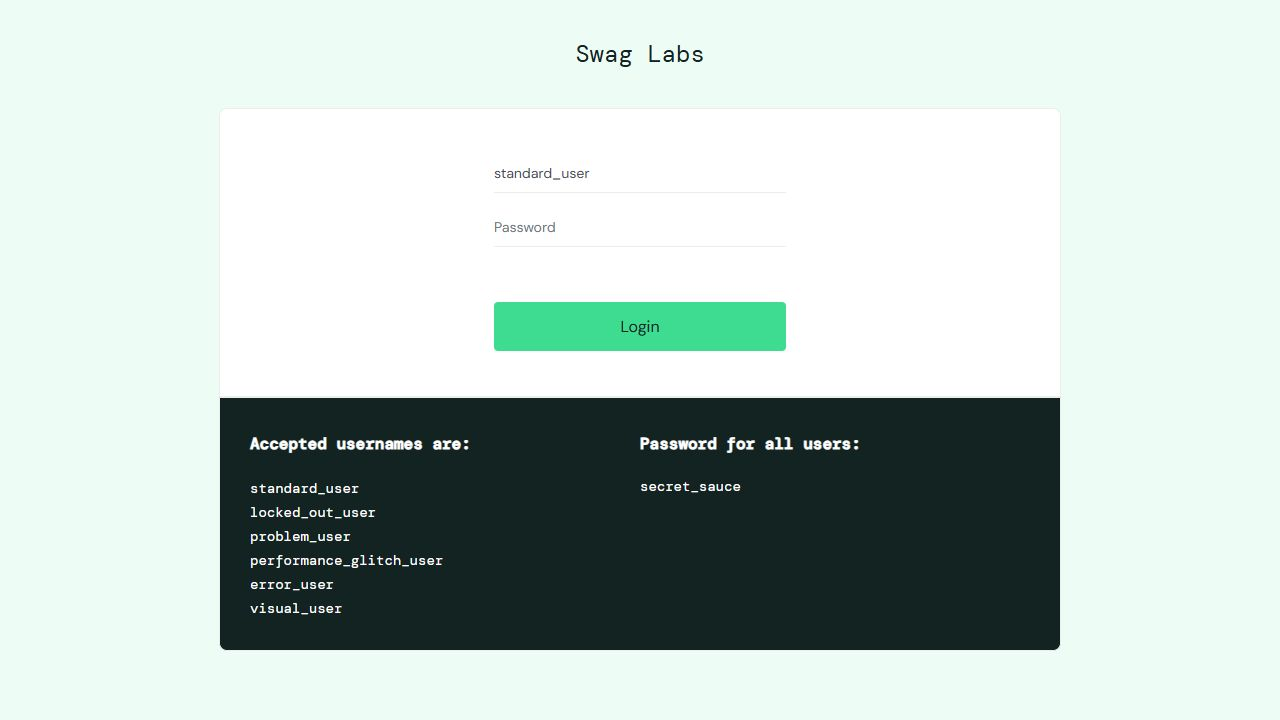
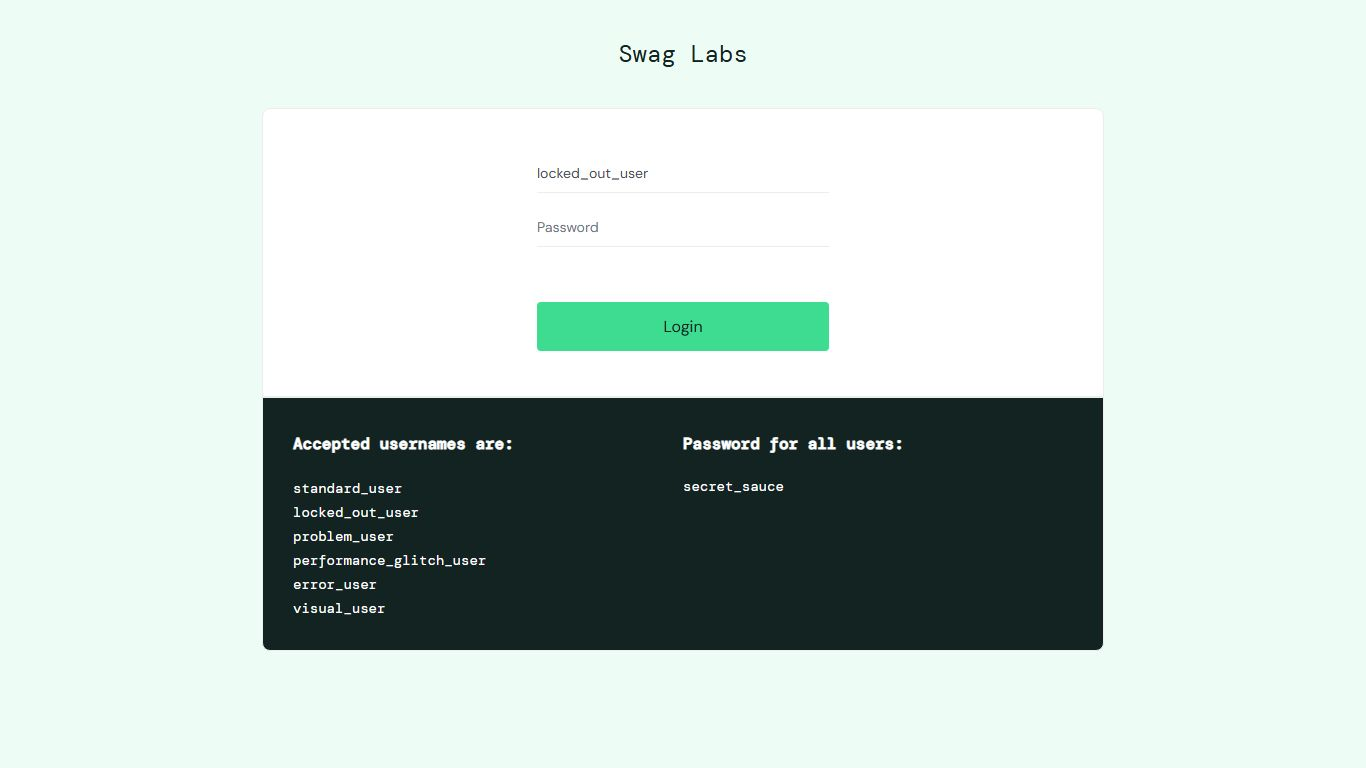
API testing

diff --git a/tests/BookStoreAPI.spec.ts b/tests/BookStoreAPI.spec.ts
@@ -1,0 +1,27 @@
+import {test,expect} from "@playwright/test"
+
+test("@MockBookStoreAPI  Test first API",async({page})=>{
+
+await page.route("**/BookStore/BookStoreV1BooksPost/9781449331818", async route => {
+await route.fulfill({
+    status: 200,
+    contentType: 'application/json',
+    body: JSON.stringify({
+      "isbn": "9781449331818",
+      "title": "Learning JavaScript Design Patterns",
+      "subTitle": "A JavaScript and jQuery Developer's Guide",
+      "author": "Keshab Mohapatra",
+      "publish_date": "2020-06-04T09:11:40.000Z",
+      "publisher": "Karunakar Mohapatra",
+      "pages": 254,
+      "description": "With Learning JavaScript Design Patterns, you'll learn how to write beautiful, structured, and maintainable JavaScript by applying classical and modern design patterns to the language. If you want to keep your code efficient, more manageable, and up-to-da",
+      "website": "http://www.addyosmani.com/resources/essentialjsdesignpatterns/book/"
+    },),
+  });
+})
+
+await page.goto("https://bookstore.toolsqa.com/swagger/#/BookStore/BookStoreV1BooksPost/9781449331818");
+await page.pause();
+
+
+})

diff --git a/tests/MyntraTest.spec.ts b/tests/MyntraTest.spec.ts
@@ -1,0 +1,21 @@
+import{test,expect}from "@playwright/test"
+import { Myntra } from "../pages/Myntra";   
+
+test("@MyntraTest  Verify the product details",async({page})=>{
+
+await page.goto('https://www.myntra.com/men-tshirts');
+await page.waitForTimeout(5000);
+const myntra = new Myntra(page);
+const page2= await myntra.Productdetails(0);
+const page3 = await myntra.Productdetails(1);
+
+const myntra2 = new Myntra(page2);
+await myntra2.selectSize("XS");
+await page2.close();
+const myntra3 = new Myntra(page3);
+await myntra3.selectSize("L");
+await page3.close();
+    
+})
+   
+    

diff --git a/tests/Interview.spec.ts b/tests/Interview.spec.ts
@@ -1,0 +1,8 @@
+import {test,expect} from "@playwright/test"
+
+
+test("Test",({page})=>{
+
+
+
+})
